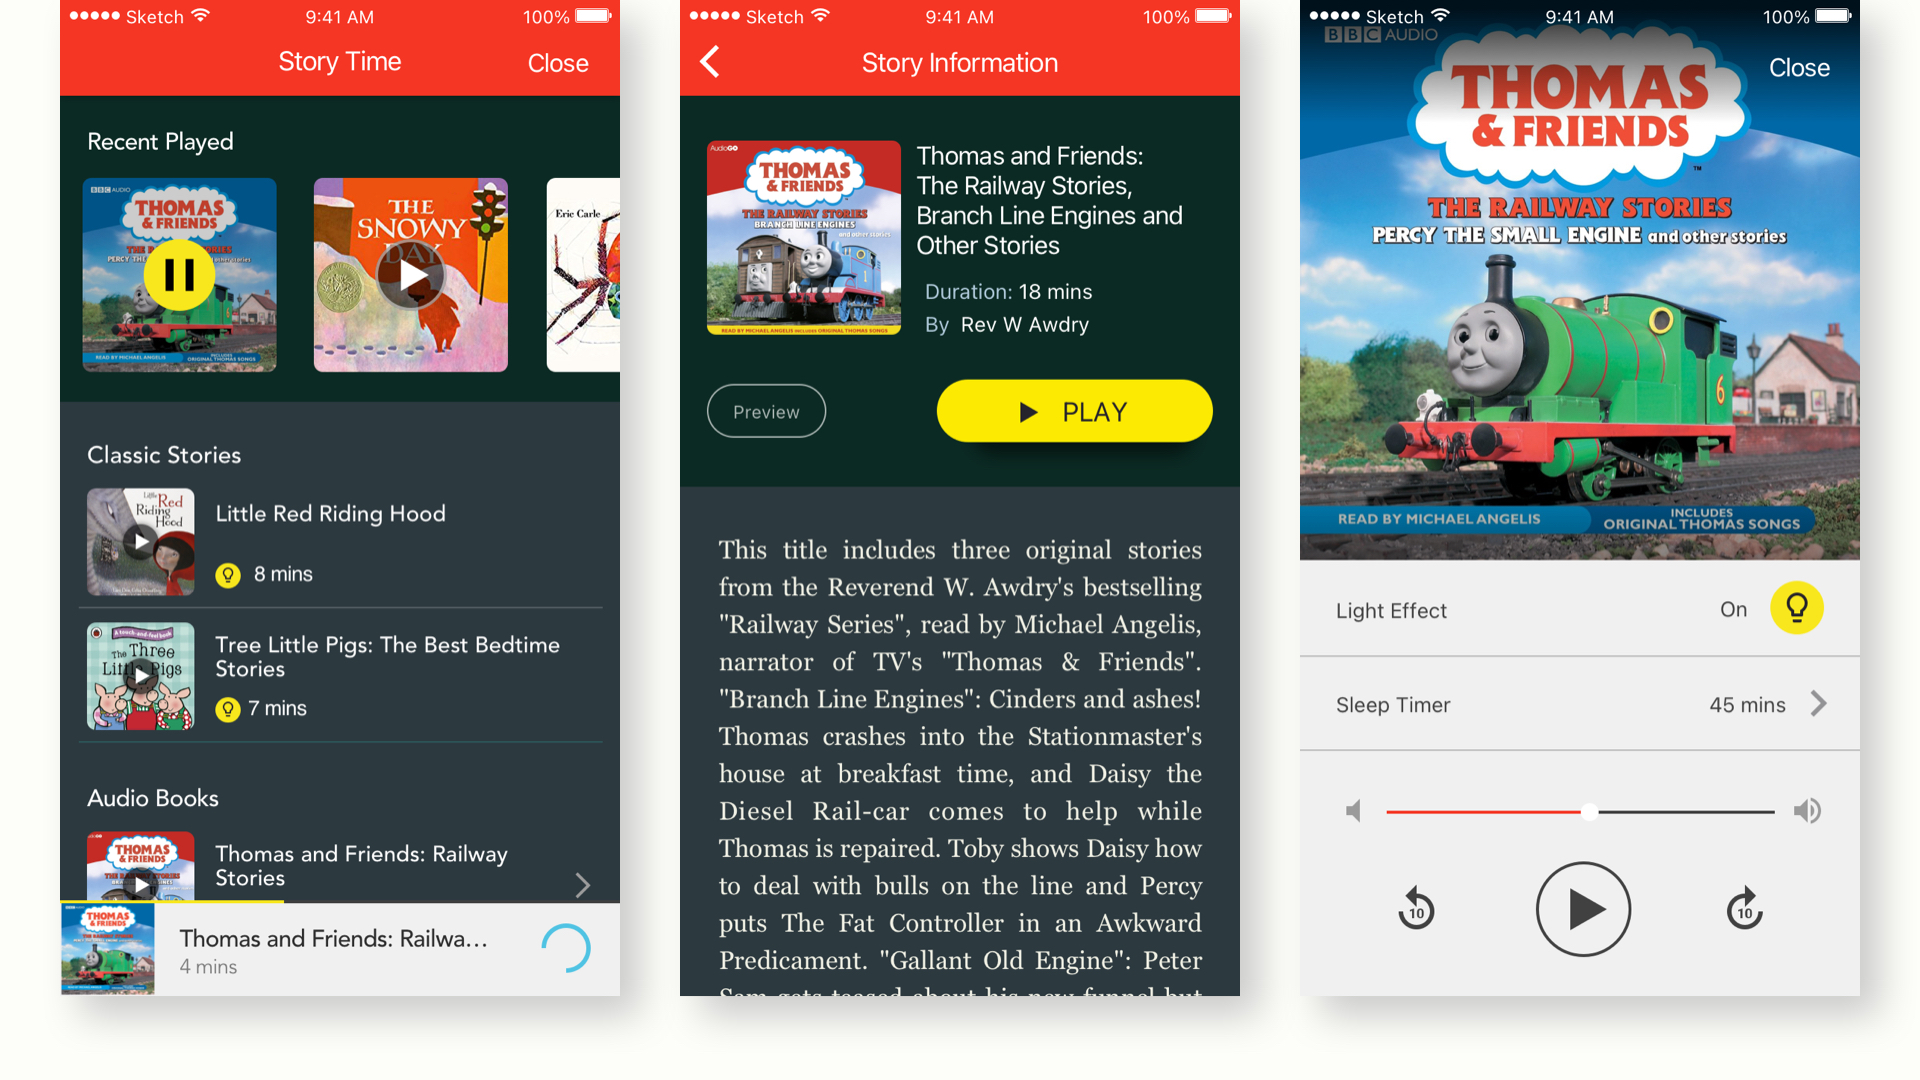
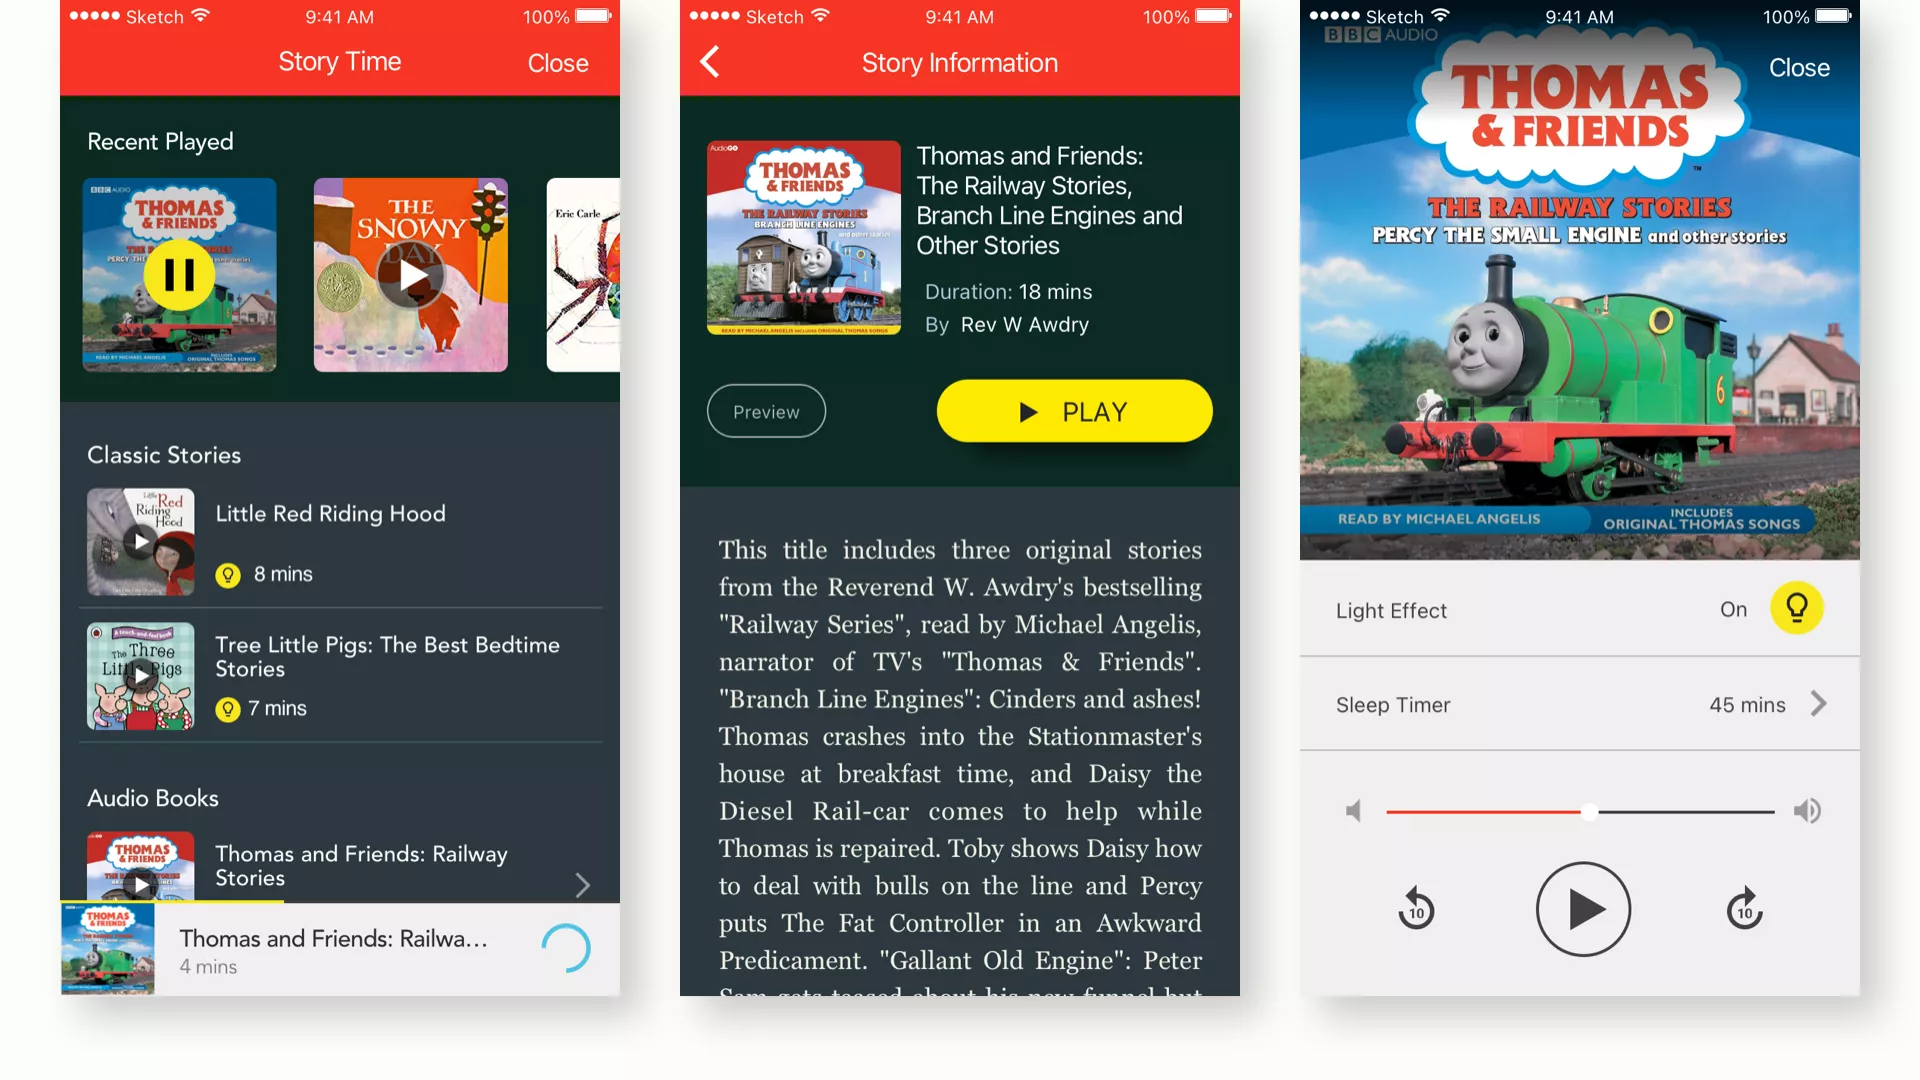
replaced png with webP

diff --git a/parental.html b/parental.html
@@ -119,16 +119,16 @@
           <h2 id="list-item-5"><span class="headingTag">Visual Design</span><br>
             A Glance-Friendly Experience.</h2>
 		
-          <div class="genScreenshot"><img src="images/parental/parental_UI-01.png"/>
+          <div class="genScreenshot"><img src="images/parental/parental_UI-01.webp"/>
             <p>This is the main page where parents can view their child's tablet usage. Parents can create different accounts with individual settings.</p>
           </div>
-          <div class="genScreenshot"><img src="images/parental/parental_UI-02.png"/>
+          <div class="genScreenshot"><img src="images/parental/parental_UI-02.webp"/>
             <p>Parents can manage which apps their children can access.</p>
           </div>
-          <div class="genScreenshot"><img src="images/parental/parental_UI-03.png"/>
+          <div class="genScreenshot"><img src="images/parental/parental_UI-03.webp"/>
             <p>Parents can restrict their children's access to certain websites.</p>
           </div>
-          <div class="genScreenshot"><img src="images/parental/parental_UI-04.png"/>
+          <div class="genScreenshot"><img src="images/parental/parental_UI-04.webp"/>
             <p>In contrast to the previous screenshot, parents can limit their children's access to only specific websites.</p>
           </div>
         </div>

diff --git a/monitor.html b/monitor.html
@@ -133,10 +133,10 @@
           <h2 id="list-item-5"><span class="headingTag">Design</span><br>
             User Interfaces</h2>
           
-          <div class="genScreenshot"><img src="images/monitor/monitor_UI.png"/>
+          <div class="genScreenshot"><img src="images/monitor/monitor_UI.webp"/>
             <p>Design for tables</p>
           </div>
-          <div class="genScreenshot"><img src="images/monitor/monitor_activity.png"/>
+          <div class="genScreenshot"><img src="images/monitor/monitor_activity.webp"/>
             <p>Design for tables</p>
           </div>
           

diff --git a/story.html b/story.html
@@ -107,7 +107,7 @@
 			
 			   <h2 id="list-item-4"><span class="headingTag">Design</span><br>
            The User flow</h2>
-        <div class="genScreenshot"><img src="images/story/story_IA.png" alt="The flow chart about the user flow"/>
+        <div class="genScreenshot"><img src="images/story/story_IA.webp" alt="The flow chart about the user flow"/>
             <p>This chart is a simplified overview of the preparatory work necessary before user can control the speaker. </p>
           </div>
 				
